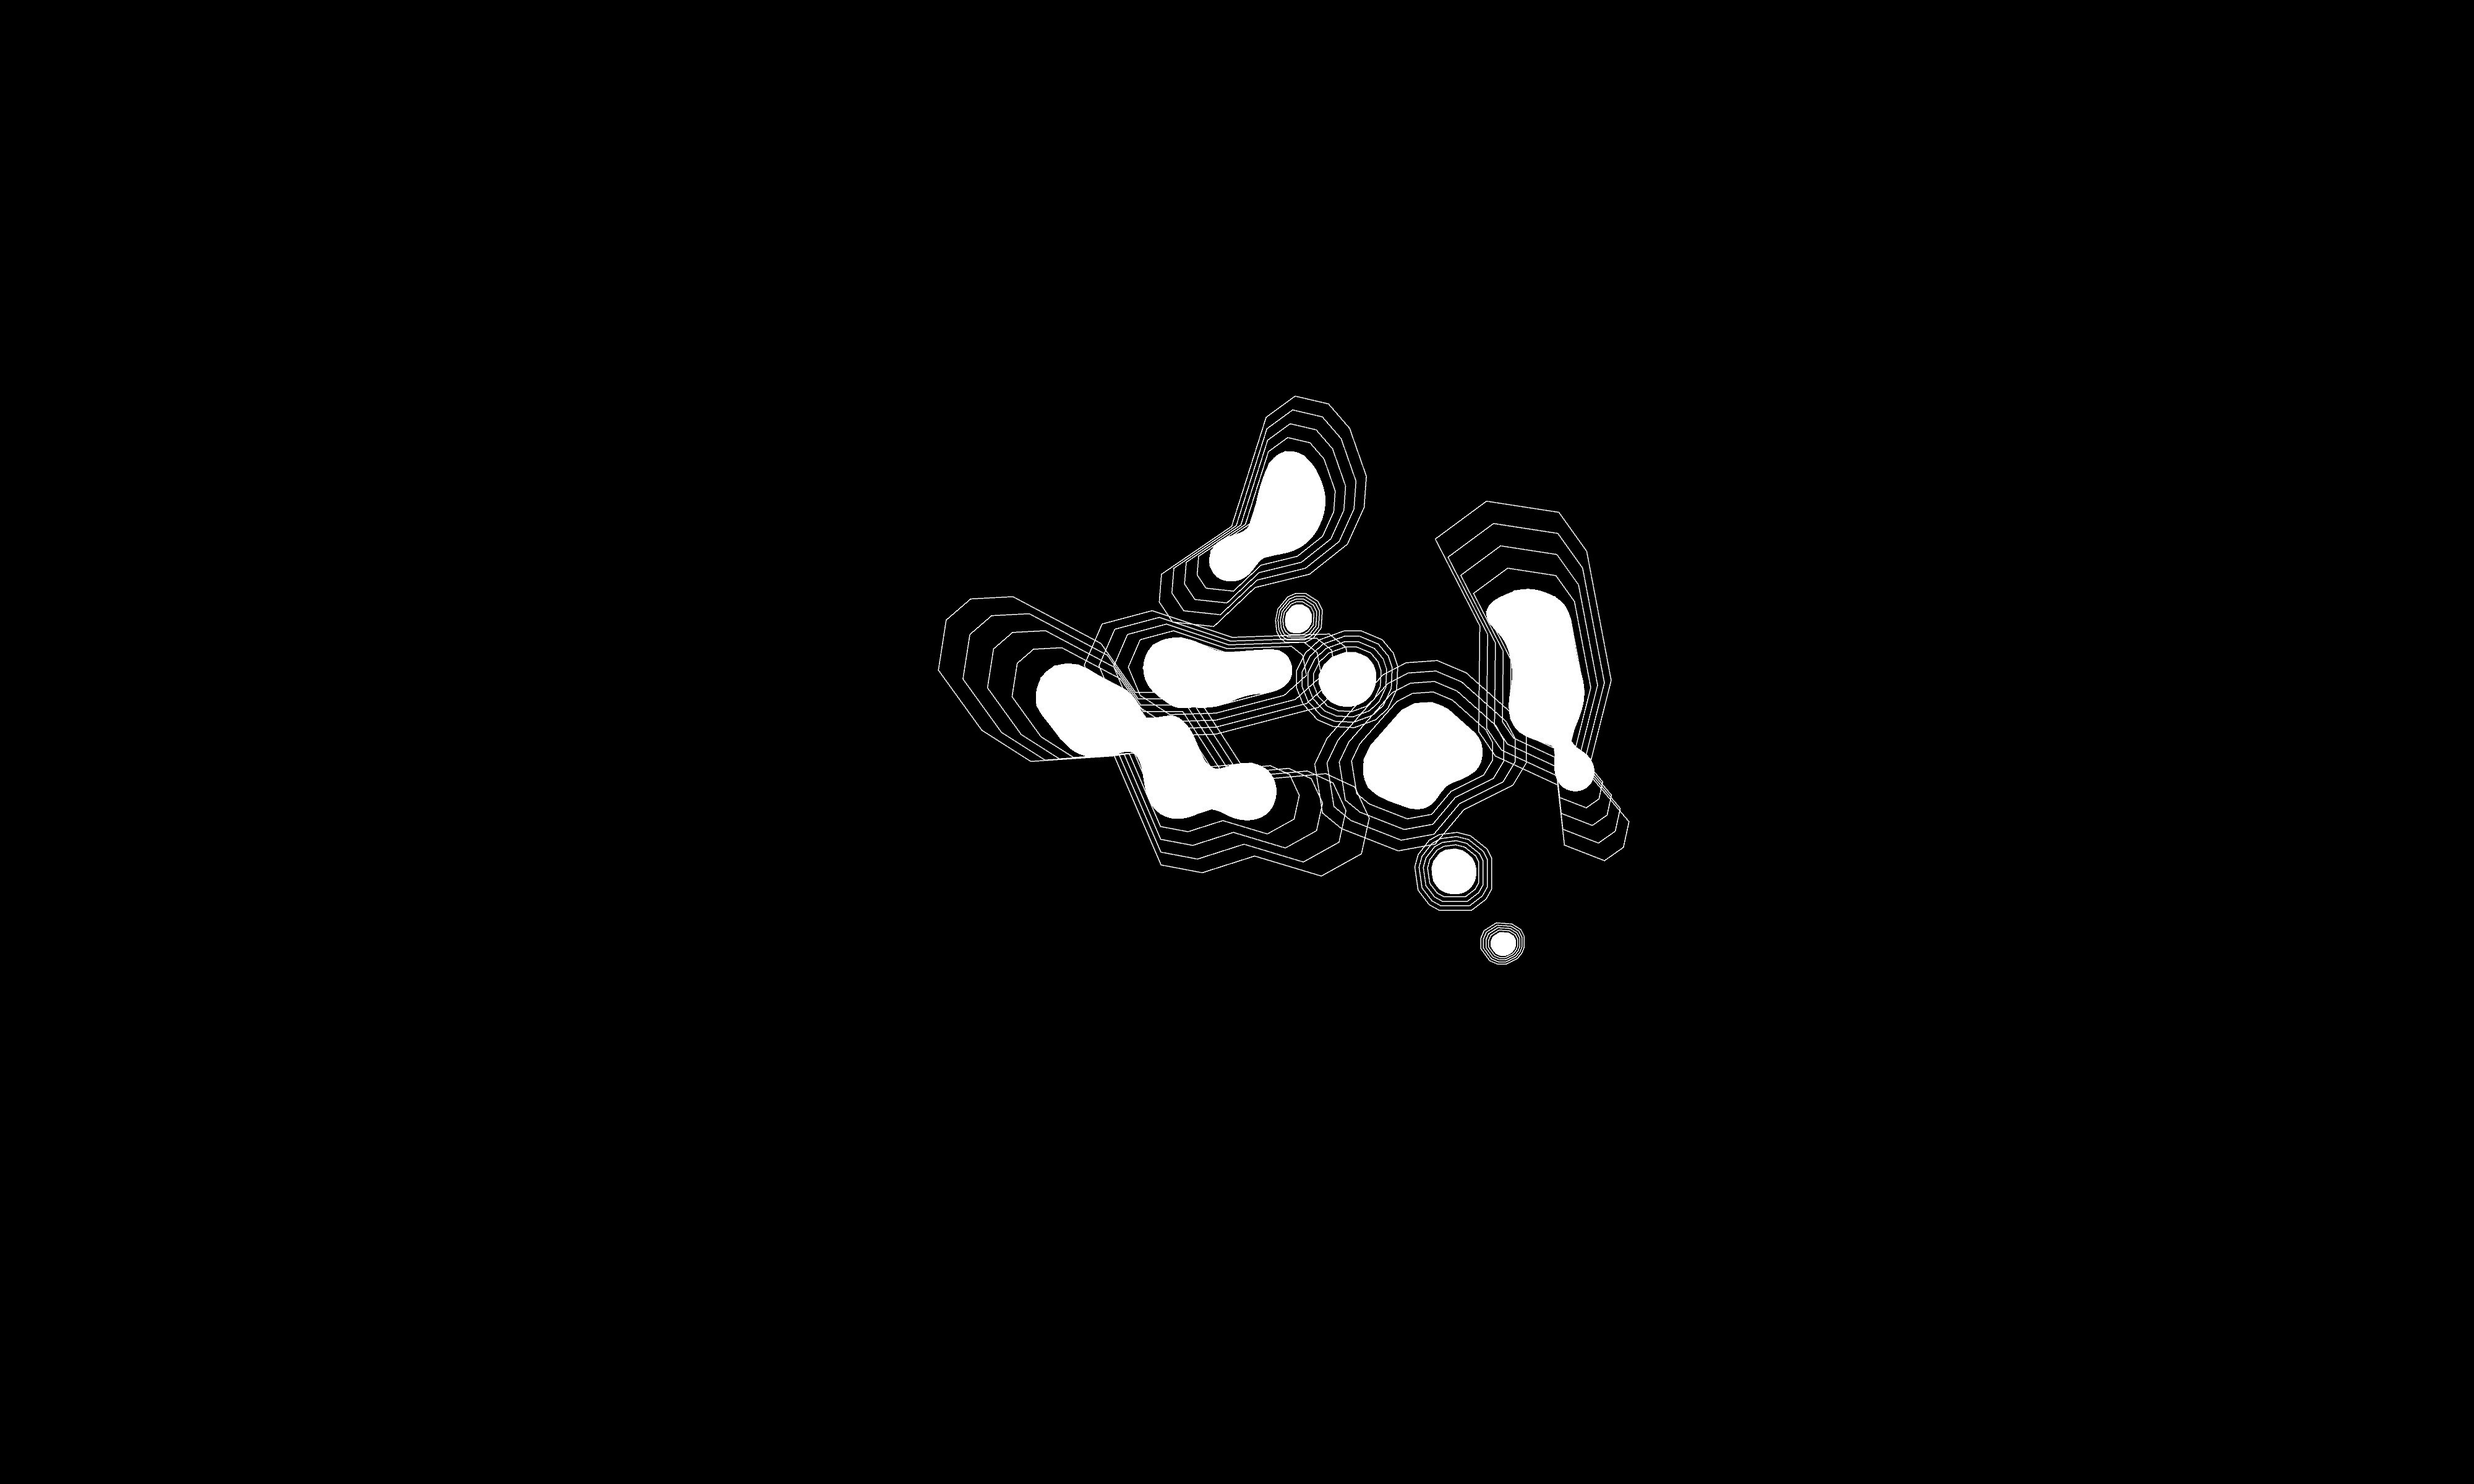
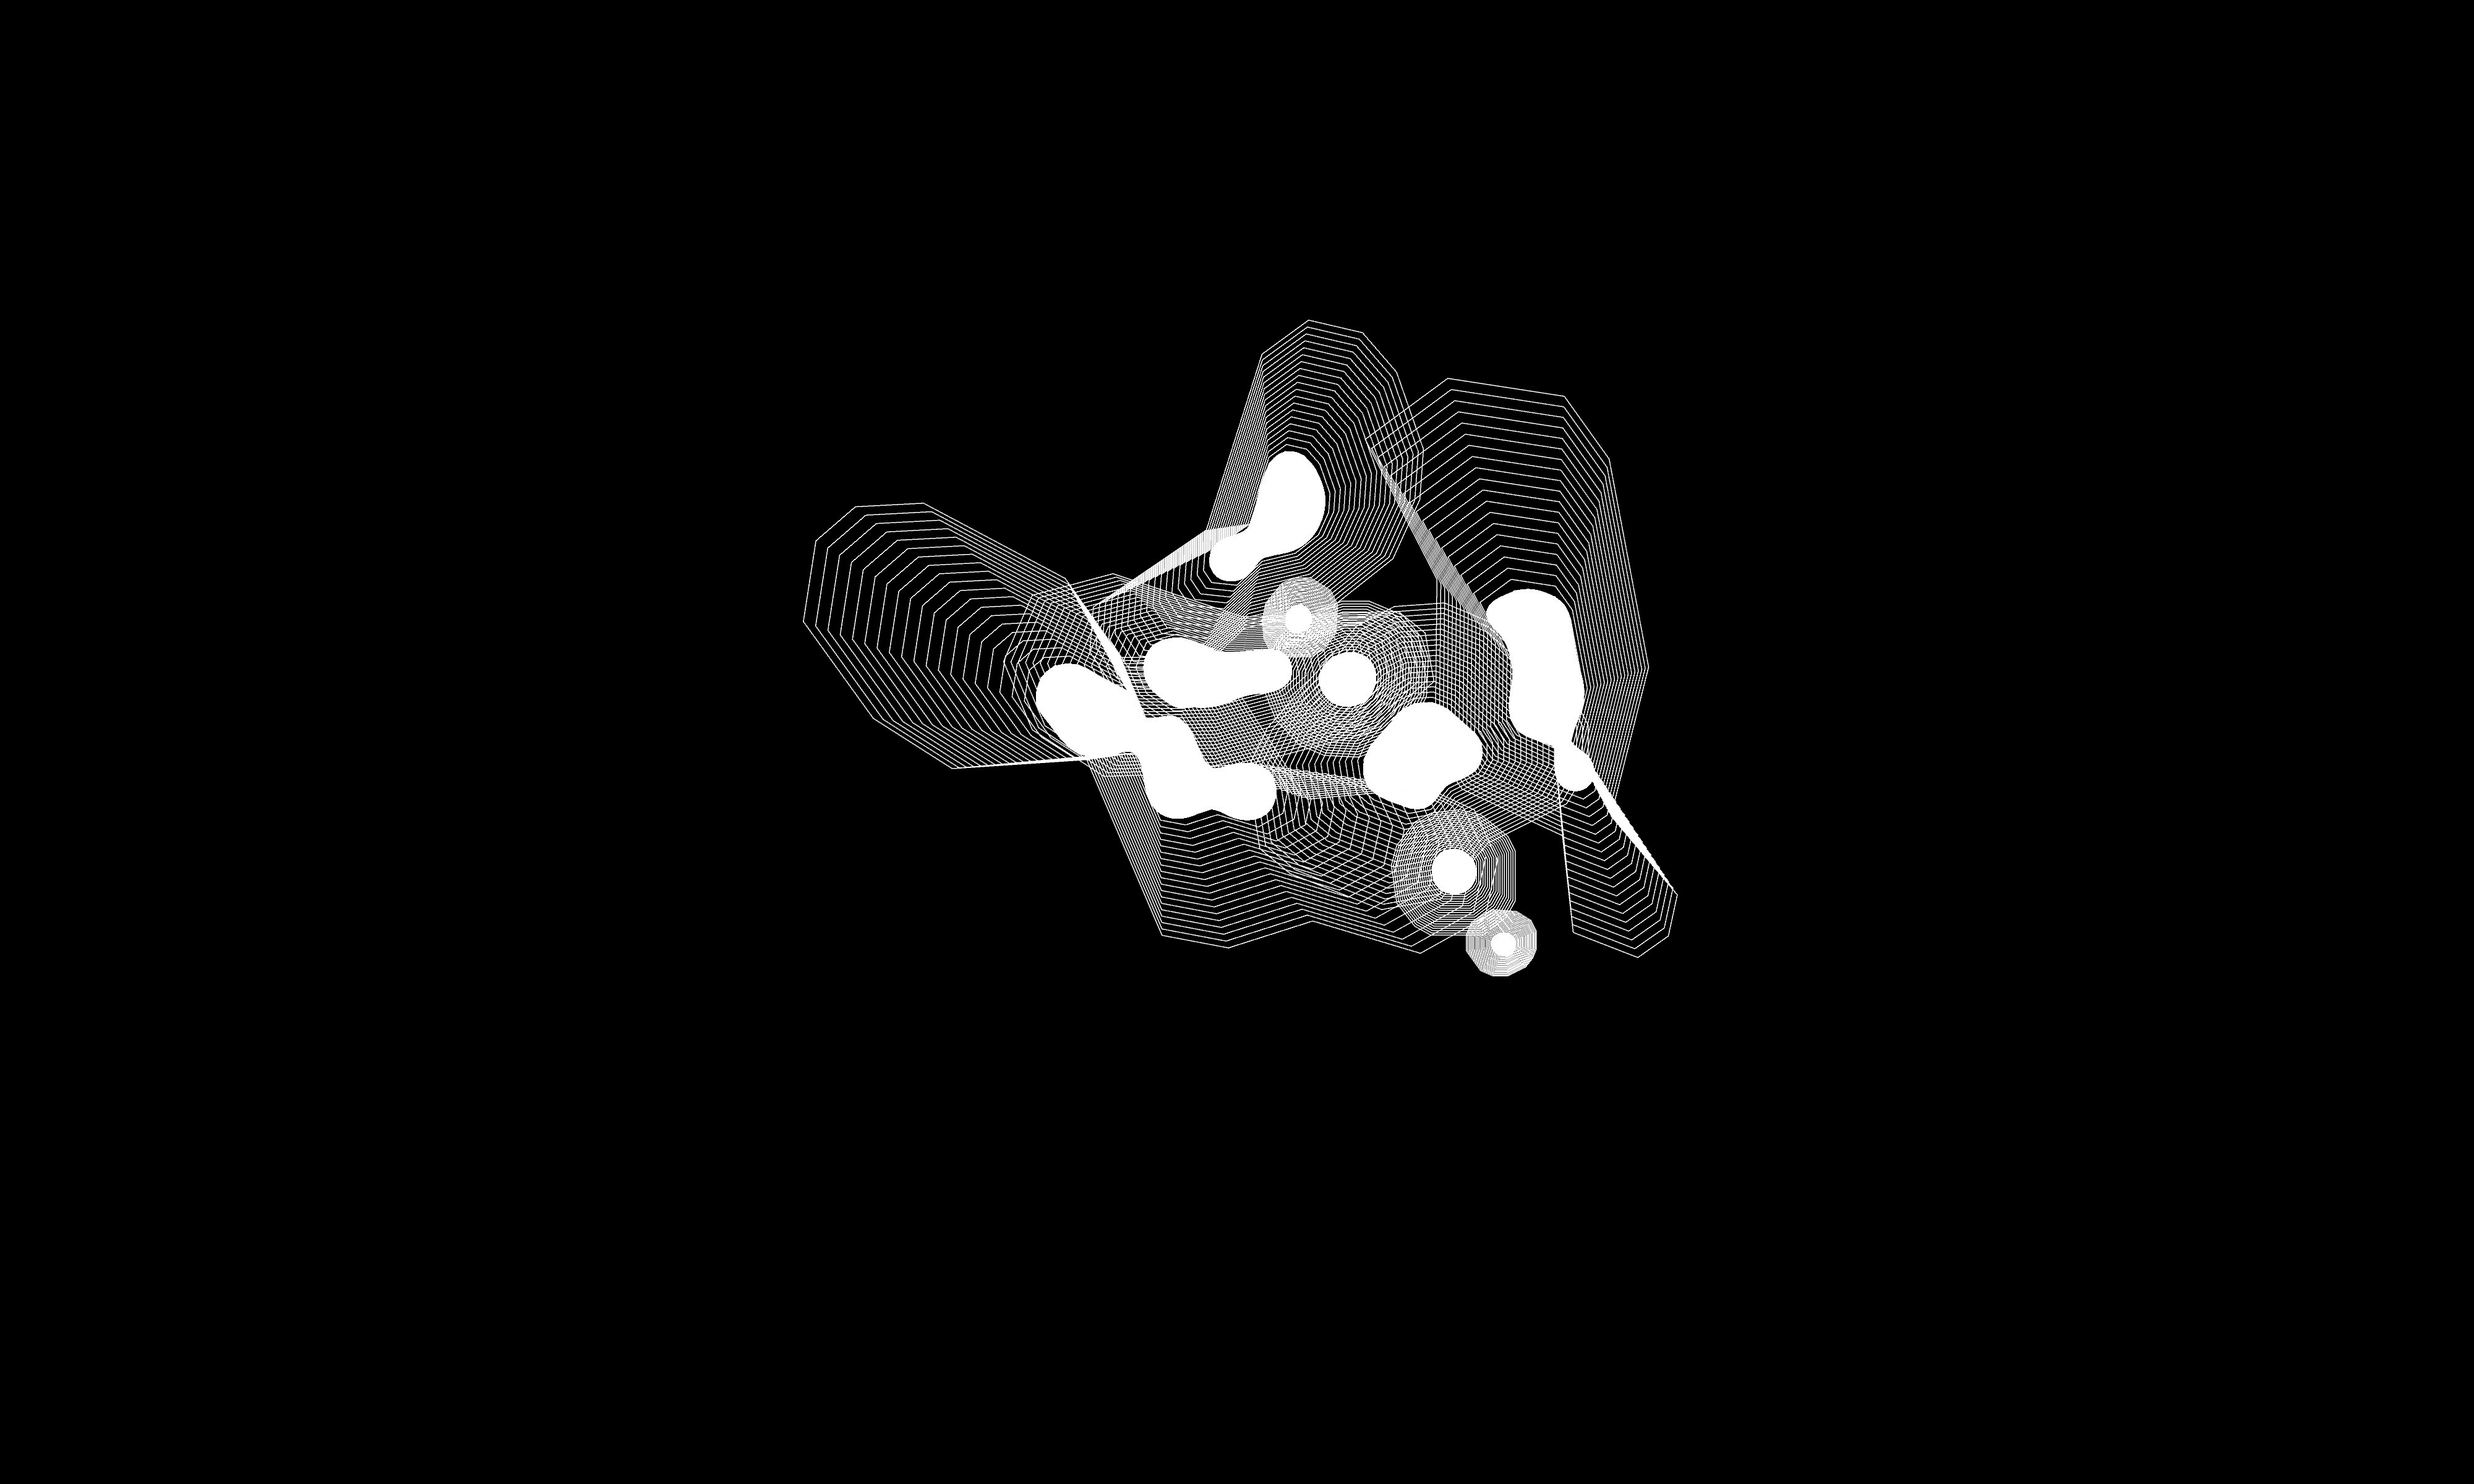
update

Changed region(s): [[0.3438, 0.2188, 0.6875, 0.6562]]

diff --git a/project algorithm/README.md b/project algorithm/README.md
@@ -1,0 +1,15 @@
+# Abstract
+In the first topic of the seminar was the exploration of the concept of algorithms. We build a list of instructions for People to execute with pen and paper with the intention to transform these results into a digital form. 
+
+The core of the analog version of the algorithm is the generation of random wax drops on a paper based on the age of the executing person. The contours around these drops shall end up in a organic overlaying grid which mesmerizes the viewer. 
+
+![Final Result] (http://54593925.swh.strato-hosting.eu/web/fh-potsdam/input-output/weblog/img/algorithm/03/contoursAnim.gif)
+
+# Prerequisite
+
+
+# Dependencies
+
+# Installation
+
+# Usage
